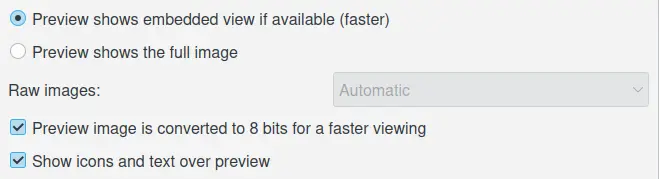
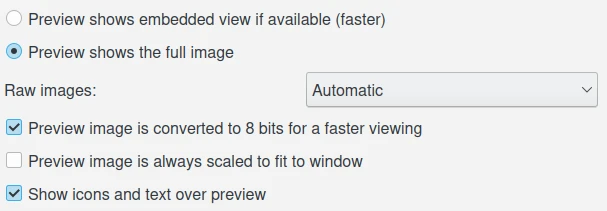
Online documentation: add new option to enlarge small image to the canvas size. CCBUGS: 275078 CCBUGS: 425342

diff --git a/setup_application/views_settings.rst b/setup_application/views_settings.rst
@@ -107,7 +107,9 @@ The option **Preview shows the full image** will always use the full image data 
 
 Only if the last option is checked, the drop down field to the right of **Raw images** is accessible. It offers three options: with **Automatic** selected, the Libraw decoder will decode the RAW data automatically without any adjustments from the user. This may lead to weird results sometimes. The algorithm also takes screen resolution and CPU speed into account to achieve an optimum regarding speed and rendering quality. **Embedded preview** will try to use the (JPEG) preview embedded in RAW files. **Raw data in half size** will show unprocessed RAW data in reduced size.
 
-The option **Preview is converted to 8 bits for a faster viewing** must be unchecked if you do not want to convert a 16 bits preview image to 8 bits. This will improve performances.
+The option **Preview image is converted to 8 bits for a faster viewing** must be unchecked if you do not want to convert a 16 bits preview image to 8 bits. This will improve performances.
+
+The option **Preview image is always scaled to fit to window** will enlarge the image to always fit the free space available on the canvas. More precisely, fit to window want means that it would scale larger images smaller to fit, as well as scale smaller images larger to fit. For small image, the enlargement can introduce artifacts. If you don't like to see small images enlarged, leave this option off.
 
 The option **Show icons and text over preview** will show elements for rotation, face tags, full screen mode, etc. in the top left corner of the image preview and a text indicating which data the preview is showing in the top right corner.
 
